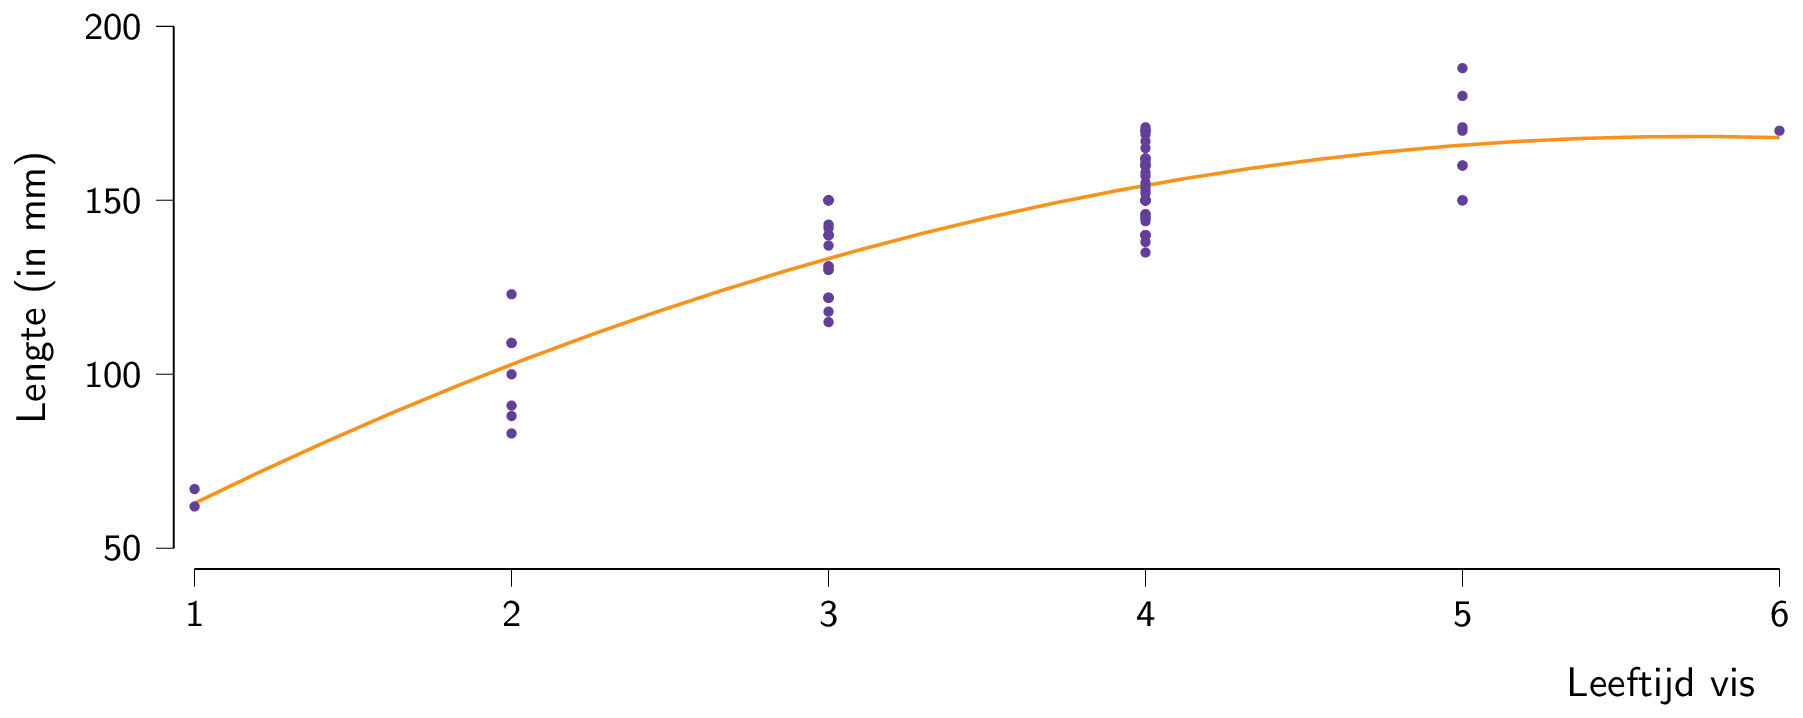
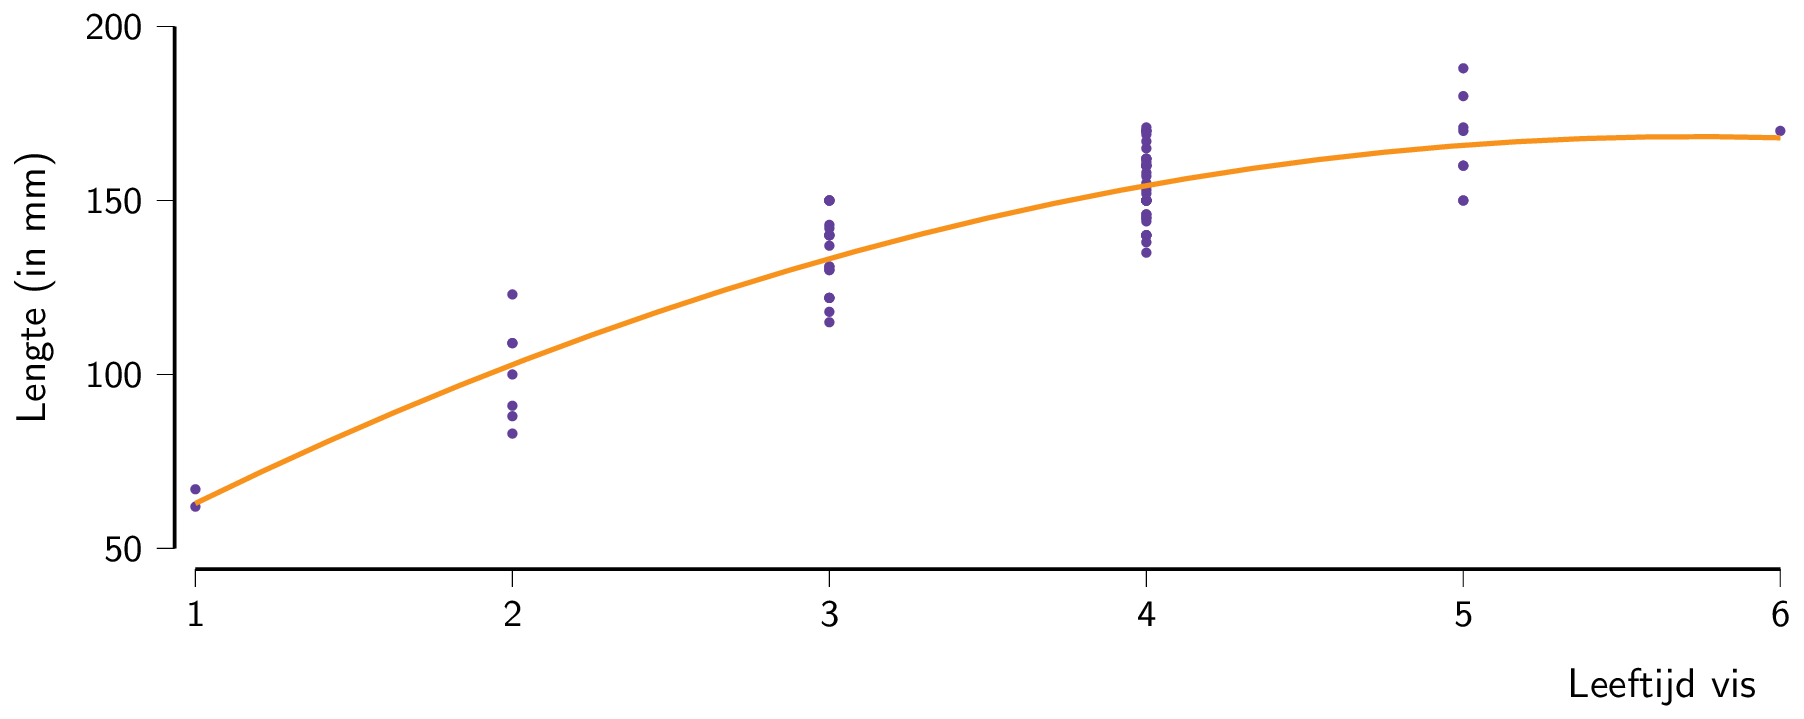
Fixing foreground and background in image

diff --git a/Deel 1 Beschrijvend/01 Inleiding/Bluegill fish/description/media/bluegill.tex b/Deel 1 Beschrijvend/01 Inleiding/Bluegill fish/description/media/bluegill.tex
@@ -26,7 +26,18 @@
 		axis y line*=left,
 		axis x line*=bottom,
 		xtick={1,2,...,6}
-	}
+	},
+	layers/my layer set/.define layer set={
+		background,
+		main,
+		foreground
+	}{
+		% you could state styles here which should be moved to
+		% corresponding layers, but that is not necessary here.
+		% That is why we don't state anything here
+	},
+	% activate the newly created layer set
+	set layers=my layer set,
 }
 
 \begin{document}
@@ -40,8 +51,9 @@
 				height = 6cm,
 				x label style= {at={(axis description cs:0.925,-0.2)}}
 			]
+			
 			\addplot[RoyalPurple, thick, only marks, mark=*, mark options={scale=0.4}] table [x=age, y=length, col sep=comma] {fish.csv};
-			\addplot[BurntOrange, thick, no marks, domain=1:6] {13.6+54.05*x-4.719*x*x};
+			\addplot[BurntOrange, very thick, no marks, domain=1:6,on layer=foreground] {13.6+54.05*x-4.719*x*x};
 		\end{axis}
 	\end{tikzpicture} 
 	
